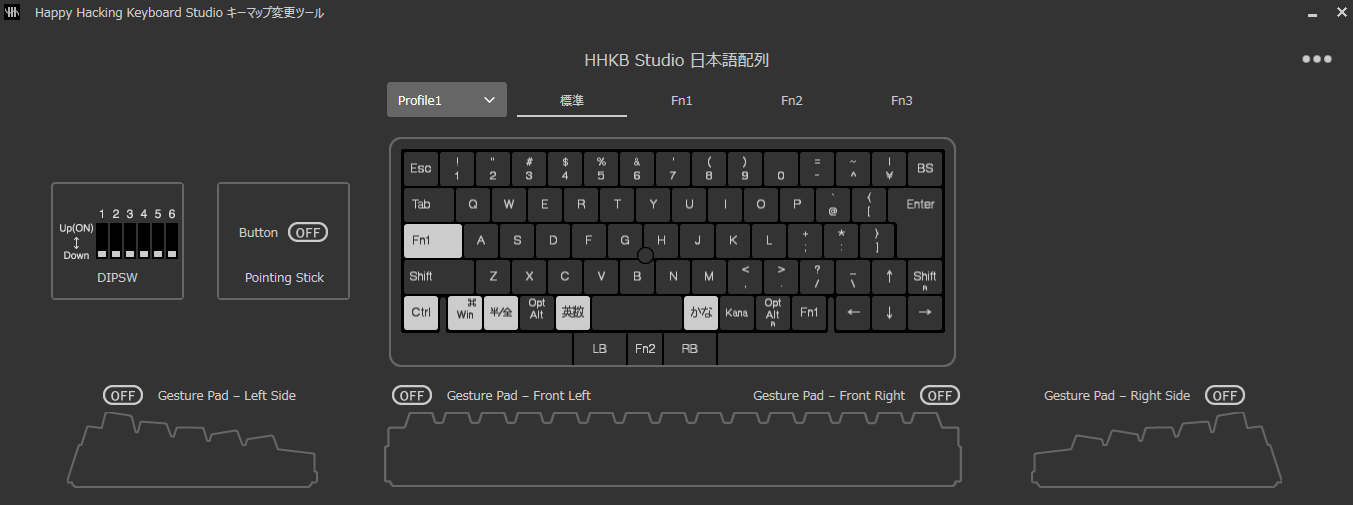
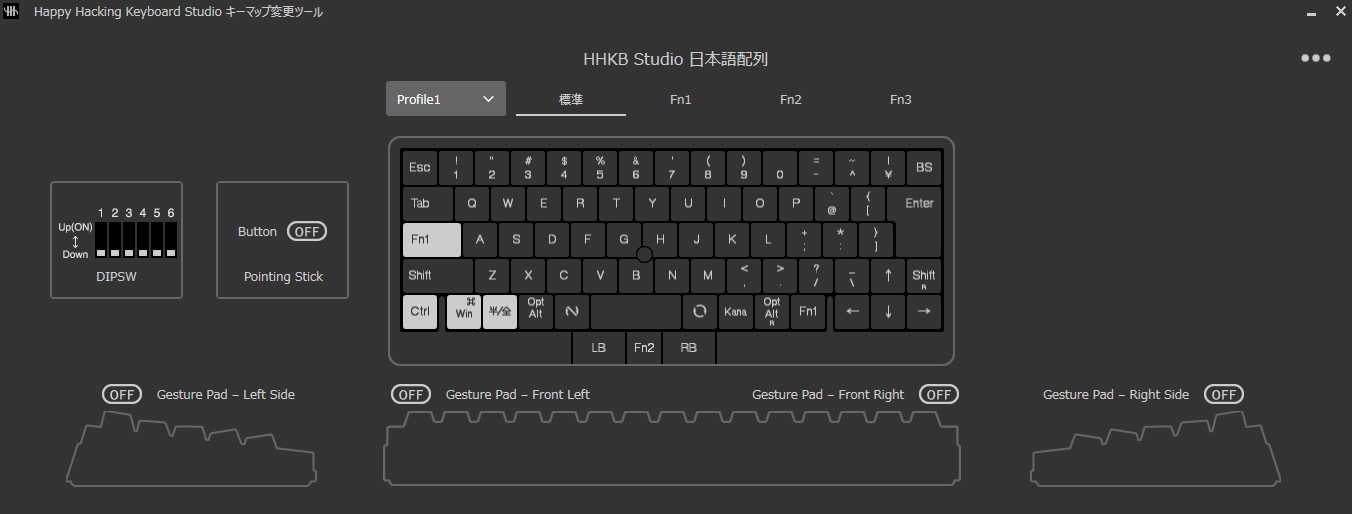
[update] IMEの設定情報を更新
英数キーとかなキーの設定をIMEのオンオフに関する情報に変更しました。
ChromeBookの対応状況についても言及しています。
画像ファイルも更新しました。

diff --git a/device/README.md b/device/README.md
@@ -45,13 +45,10 @@ DIPスイッチは2のみオン
 ![](./img/hhkb_studio/fn1.png)  
 ![](./img/hhkb_studio/fn2.png)
 
-#### 英数キーとかなキー
-かなキーがLang1キーで英数キーがLang2キーとなっている。  
-WindowsのIMEではLang1がIMEオン、Lang2がIMEオフとなっている。  
-TODO: ChromeBookでは上記の設定になっていない。対応が必要。
-
-##### 参考
-https://learn.microsoft.com/ja-jp/windows-hardware/design/component-guidelines/keyboard-japan-ime
+#### IMEのオンオフ
+[os/windows/README](../os/windows/README.md)に書いてあるとおり、変換／無変換をIMEのオン／オフに割り当てている。  
+キーマップ変更ツールでかな／英数キーを割り当てることでLang1／Lang2を割り当てることができるが、ChromeBookが対応していないので、使っていない。
+[WindowsのIME](https://learn.microsoft.com/ja-jp/windows-hardware/design/component-guidelines/keyboard-japan-ime)ではLang1がIMEオン、Lang2がIMEオフとなっている。  
 
 #### F2レイヤー
 * WASD
